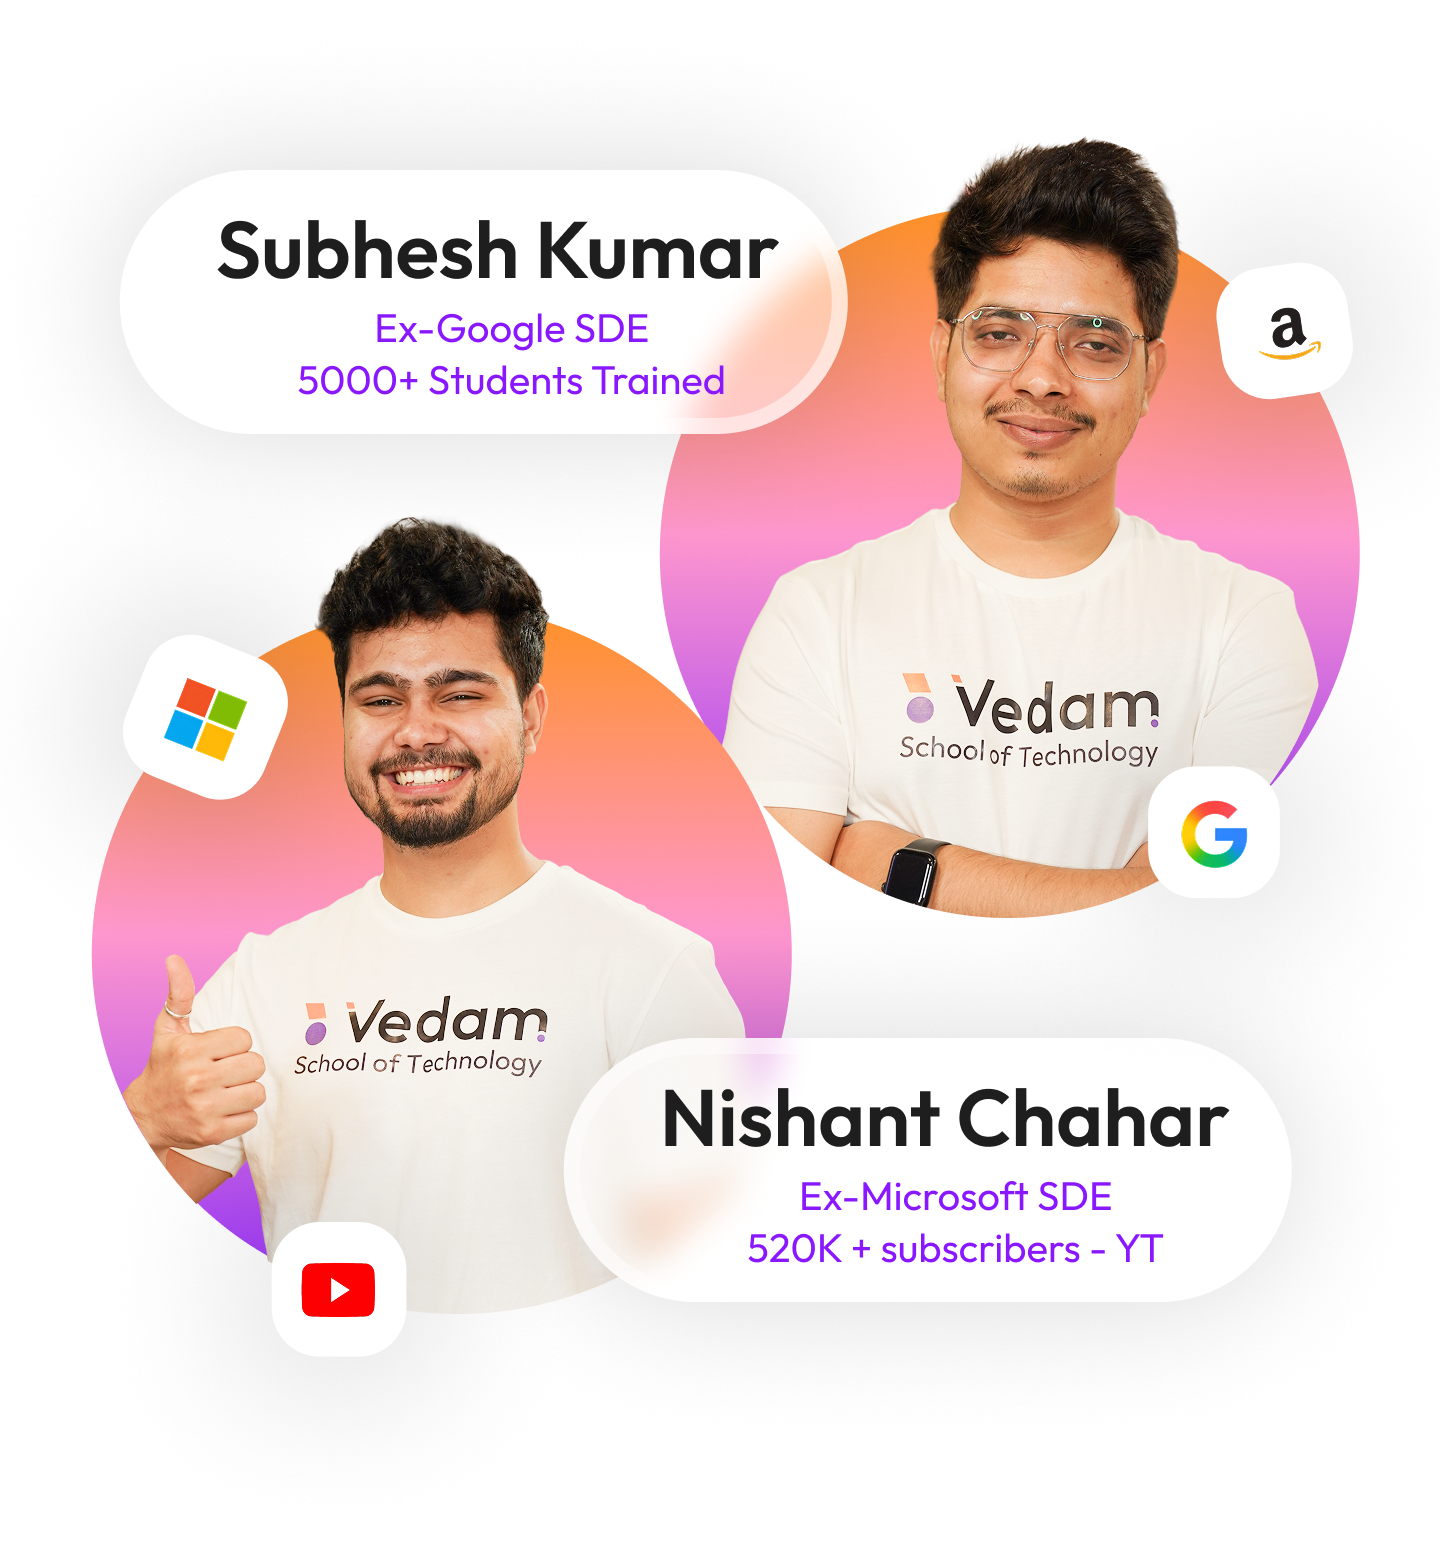
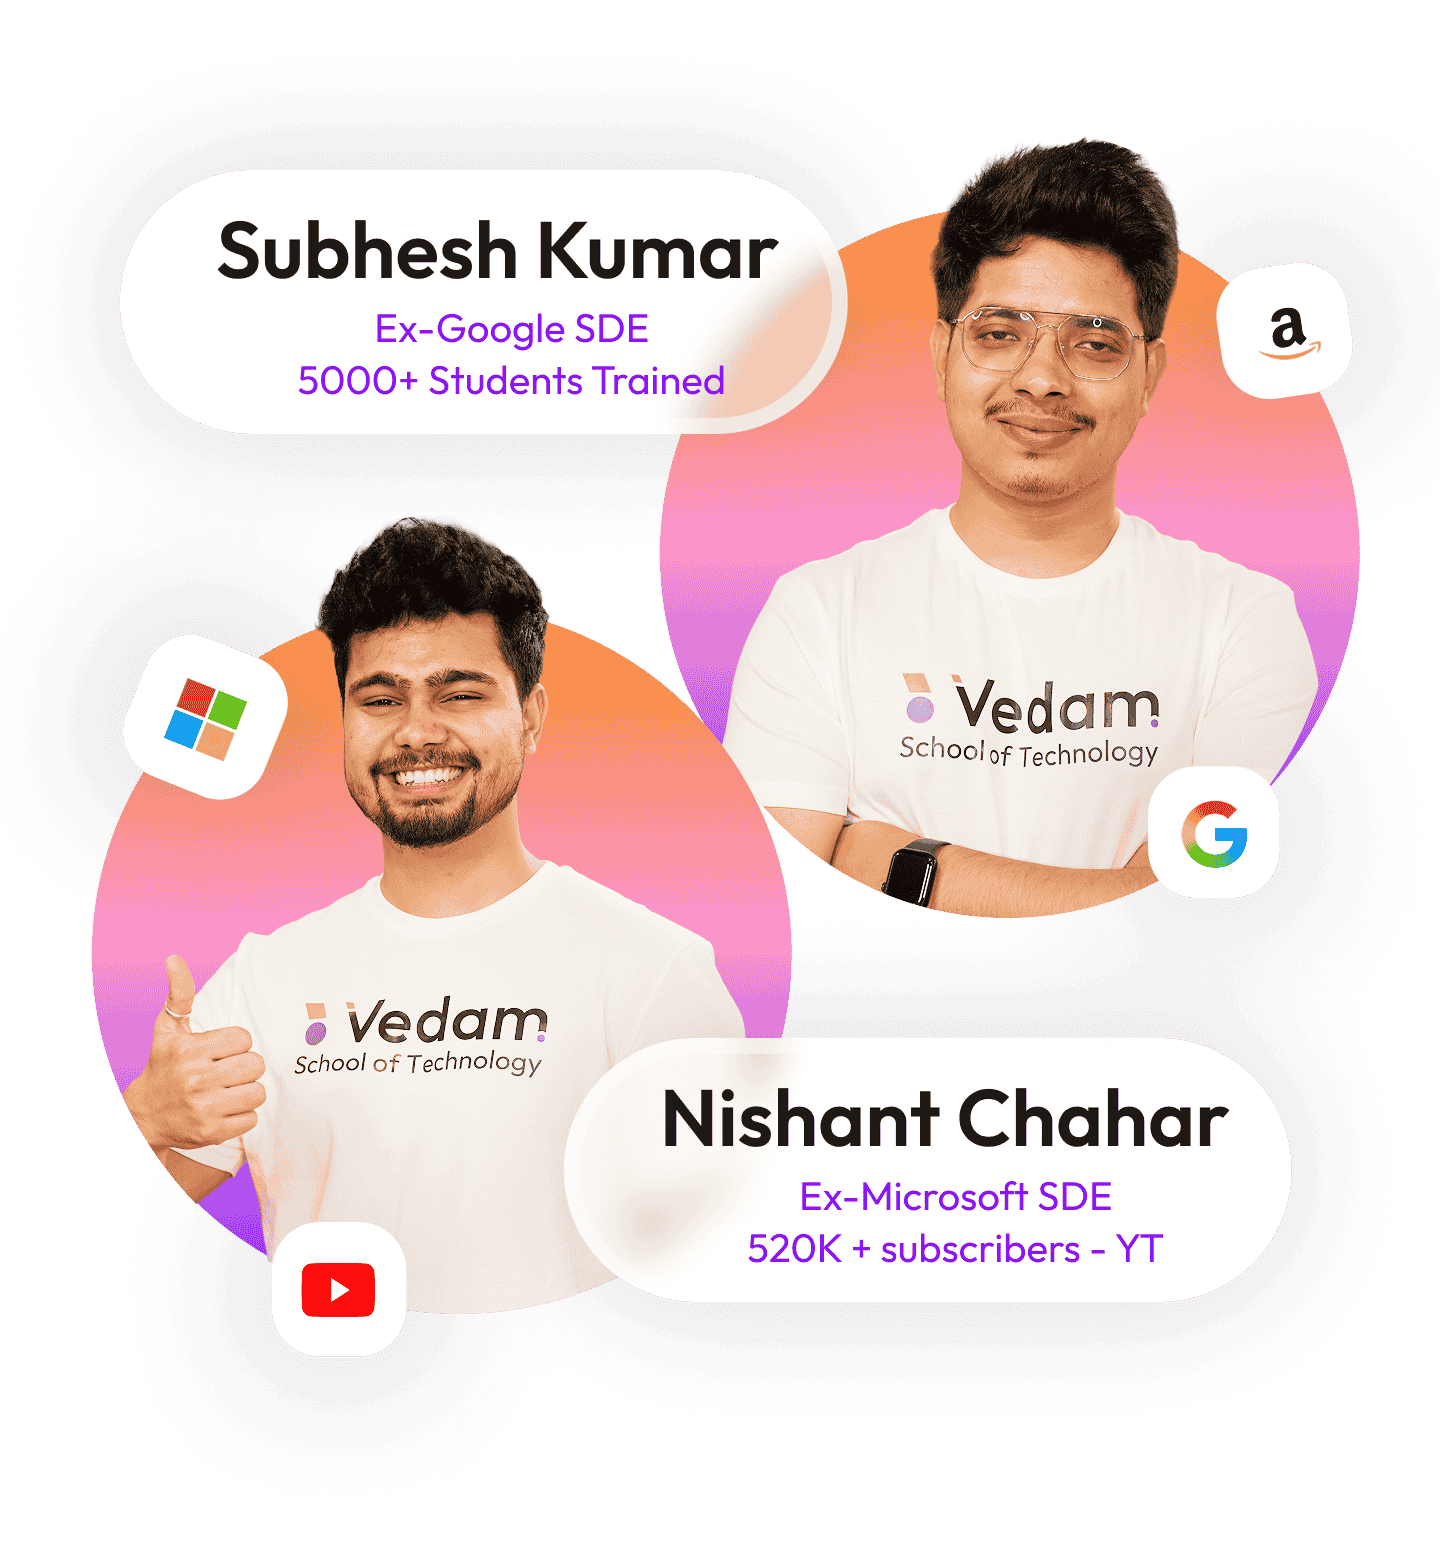
VF-74 bugfixes & image optimization

diff --git a/src/app/home/client/components/VideoCourses.tsx b/src/app/home/client/components/VideoCourses.tsx
@@ -328,13 +328,13 @@ export default function VideoCourses() {
                   />
                   <Box sx={{ flex: 2, display: 'flex', flexDirection: 'column', justifyContent: 'space-between' }}>
                     <Box>
-                      <Skeleton width="50%" height={30} animation="wave" />
-                      <Skeleton width="80%" height={24} animation="wave" sx={{ mt: 1 }} />
-                      <Skeleton width="60%" height={20} animation="wave" sx={{ mt: 1 }} />
+                      <Skeleton width="70%" height={30} animation="wave" />
+                      <Skeleton width="100%" height={24} animation="wave" sx={{ mt: 1 }} />
+                      <Skeleton width="80%" height={20} animation="wave" sx={{ mt: 1 }} />
                     </Box>
                     <Skeleton
                       variant="rectangular"
-                      width={100}
+                      width={200}
                       height={44}
                       animation="wave"
                       sx={{ borderRadius: '12px' }}

diff --git a/src/app/home/client/components/Outcomes.tsx b/src/app/home/client/components/Outcomes.tsx
@@ -44,7 +44,6 @@ const data = [
     content: 'Get an edge over your peers on coding skills',
     bgcolor: '#D8E5FF',
     bordercolor: '#6381BD',
-    hasLineGap: true,
   },
 ];
 
@@ -136,6 +135,7 @@ const Outcomes = () => {
                       fontFamily: 'Outfit, sans-serif',
                       fontSize: { xs: '2rem', md: '2.5rem' },
                       fontWeight: 600,
+                      textAlign:'left'
                     }}
                   >
                     {item.s_no}
@@ -149,6 +149,7 @@ const Outcomes = () => {
                       lineHeight: 1.4,
                       color: '#1E1E1E',
                       fontWeight: 300,
+                      textAlign:'left'
                     }}
                   >
                     <Box component="span" sx={{ fontWeight: 700 }}>

diff --git a/src/app/home/client/components/VideoInfo.tsx b/src/app/home/client/components/VideoInfo.tsx
@@ -196,7 +196,7 @@ const VideoInfo: React.FC = () => {
             <>
               <Box
                 component="img"
-                src="/home/videoInfo/videoThumbnail.png"
+                src="/home/videoInfo/videoThumbnail.jpeg"
                 alt="Tech Minds Behind Vedam"
                 sx={{
                   position: 'absolute',
